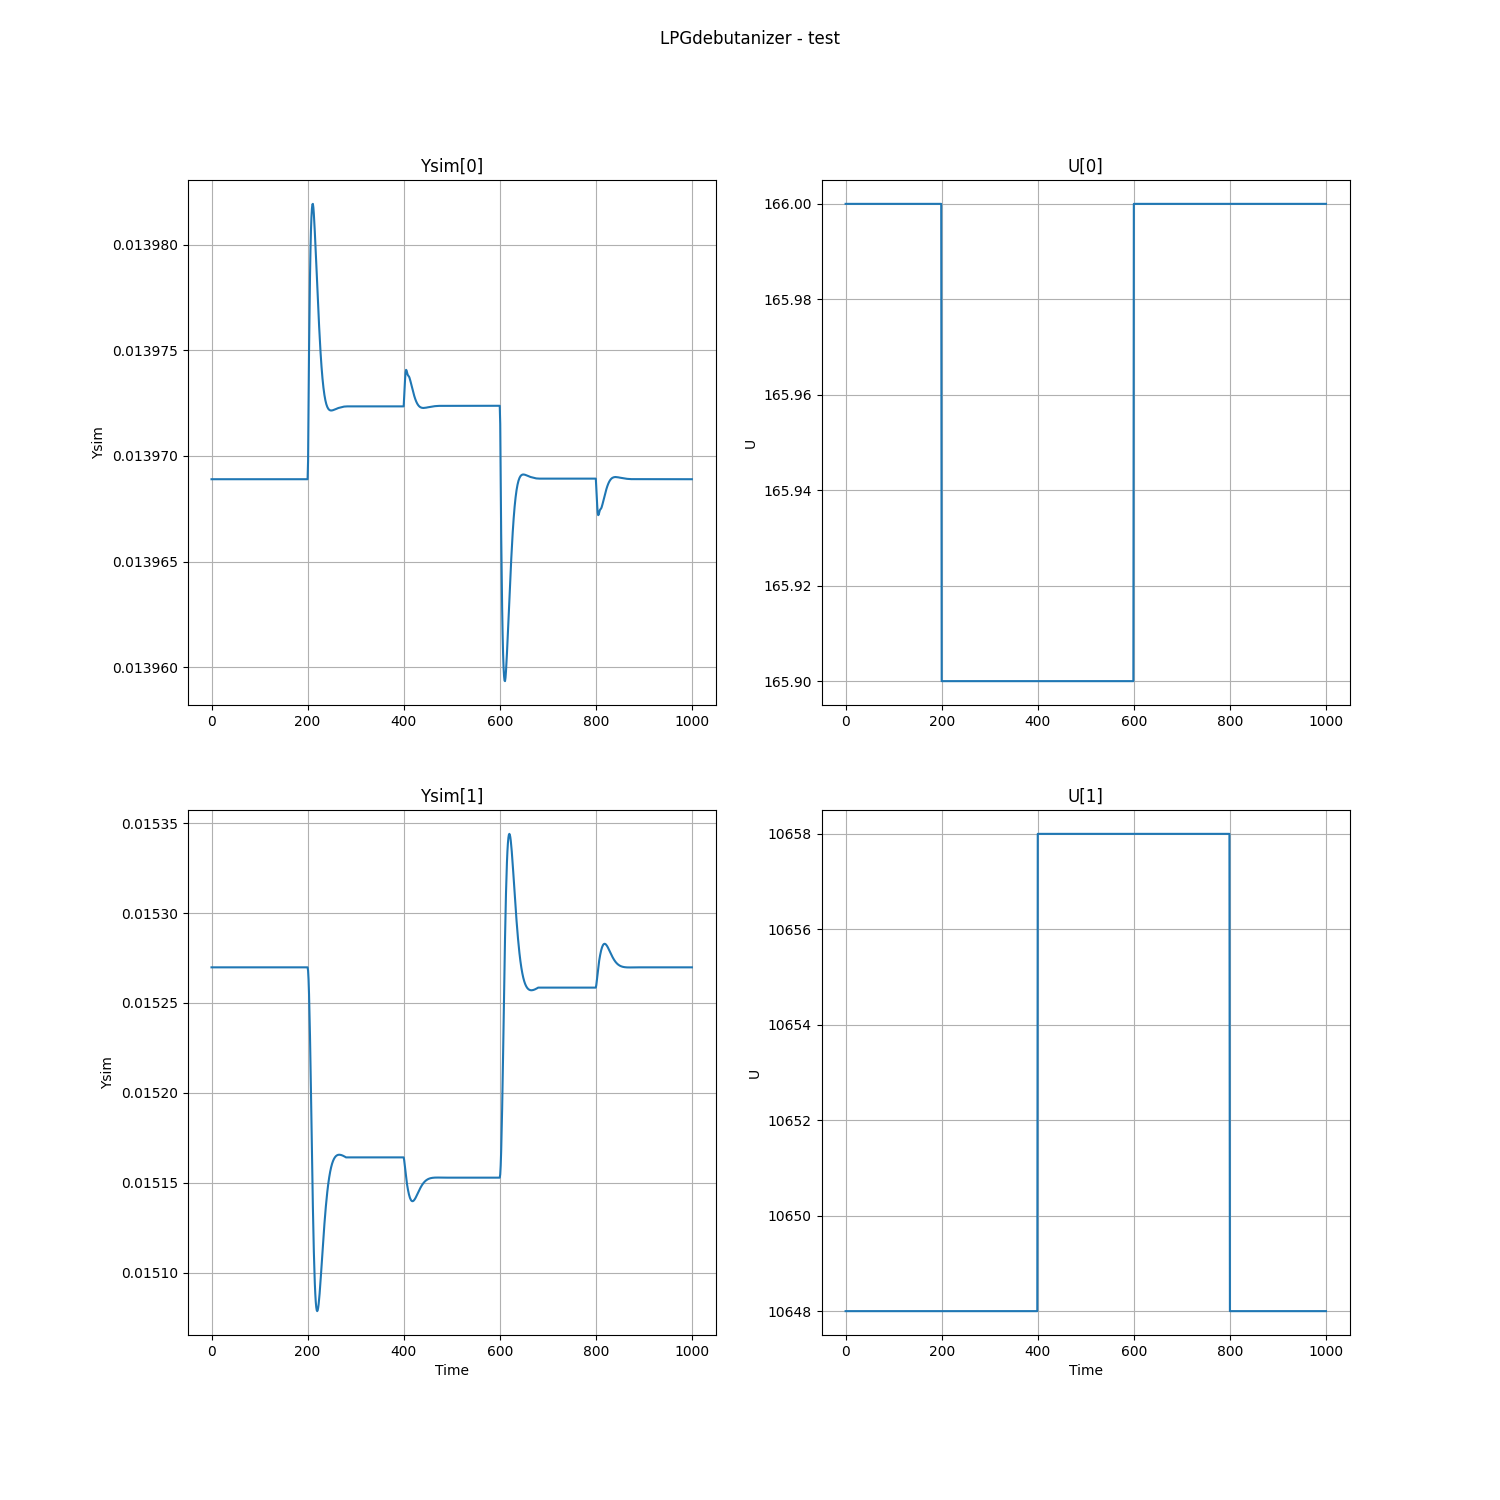
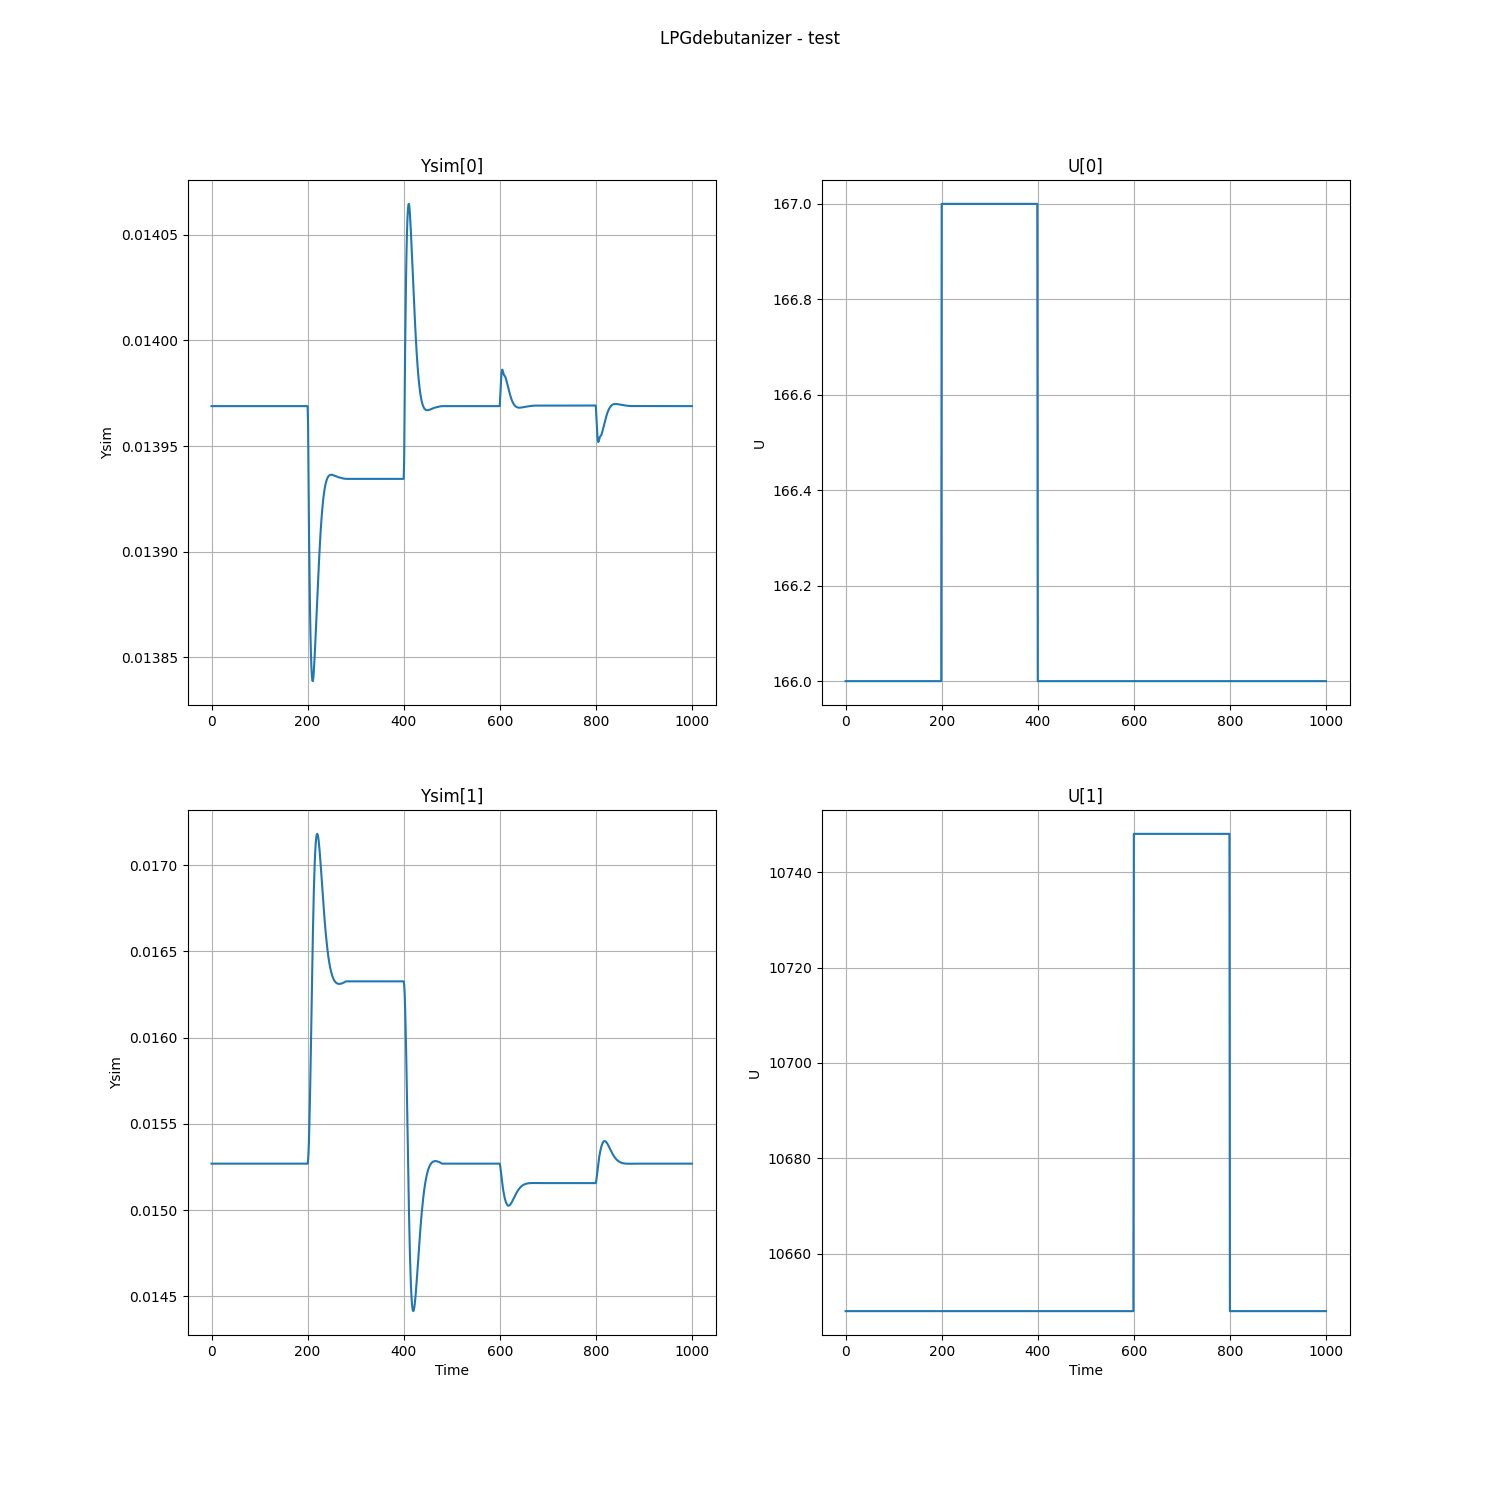
LPGdebutanizer best tuned

diff --git a/01-LPGdebutanizerSimTest.py b/01-LPGdebutanizerSimTest.py
@@ -23,9 +23,9 @@ plot_step_responses(Gmstep, nsim, T, plot_max_length=120, fig_name='LPGdebutaniz
 # Set Simulation test
 tsimTest = np.linspace(0, nsimTest * T, nsimTest + 1)  # Simulation Time vector
 Utest = np.tile(u0, (len(tsimTest), 1)).T.astype(float)  # Initialisation of the input matrix
-Utest[:, 200:] = np.array([165.9, 10648.]).reshape(-1, 1).astype(float)  # Step change in inputs
-Utest[:, 400:] = np.array([165.9, 10658.]).reshape(-1, 1).astype(float)  # Step change in inputs
-Utest[:, 600:] = np.array([166., 10658.]).reshape(-1, 1).astype(float)  # Step change in inputs
+Utest[:, 200:] = np.array([167., 10648.]).reshape(-1, 1).astype(float)  # Step change in inputs
+Utest[:, 400:] = np.array([166., 10648.]).reshape(-1, 1).astype(float)  # Step change in inputs
+Utest[:, 600:] = np.array([166., 10748.]).reshape(-1, 1).astype(float)  # Step change in inputs
 Utest[:, 800:] = np.array([166., 10648.]).reshape(-1, 1).astype(float)  # Step change in inputs
 
 # Simulate the test
@@ -42,9 +42,9 @@ umax = np.array([200., 20000.])
 umin = np.array([120., 1000.])
 ymax = np.array([0.02, 0.01])
 ymin = np.array([0.01, 0.005])
-dumax = np.array([2, 200.])
+dumax = np.array([1, 1000.])
 q = np.array([1000., 1000.])  # Output weights
-r = np.array([100., 1])  # Input weights
+r = np.array([100., 0.00001])  # Input weights
 
 # Control loop simulation
 tsim = np.linspace(0, nsim * T, nsim + 1)  # Simulation Time vector
